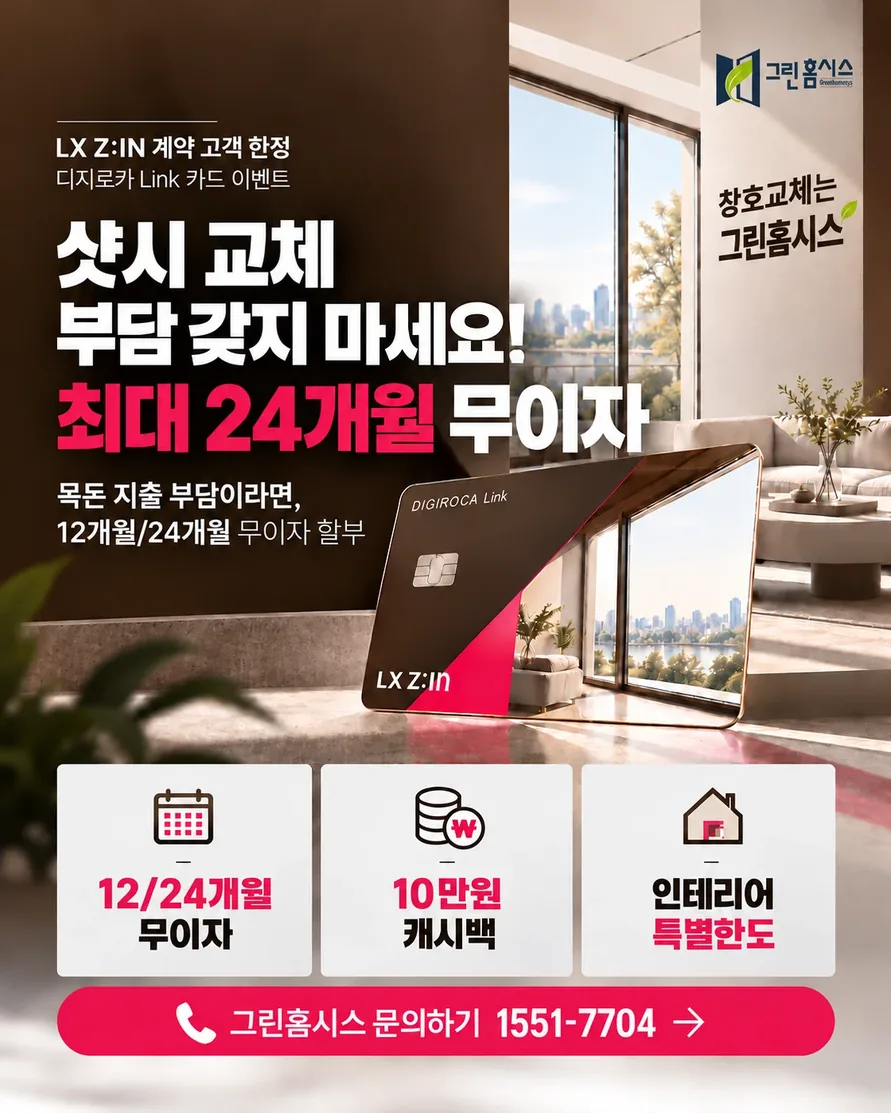
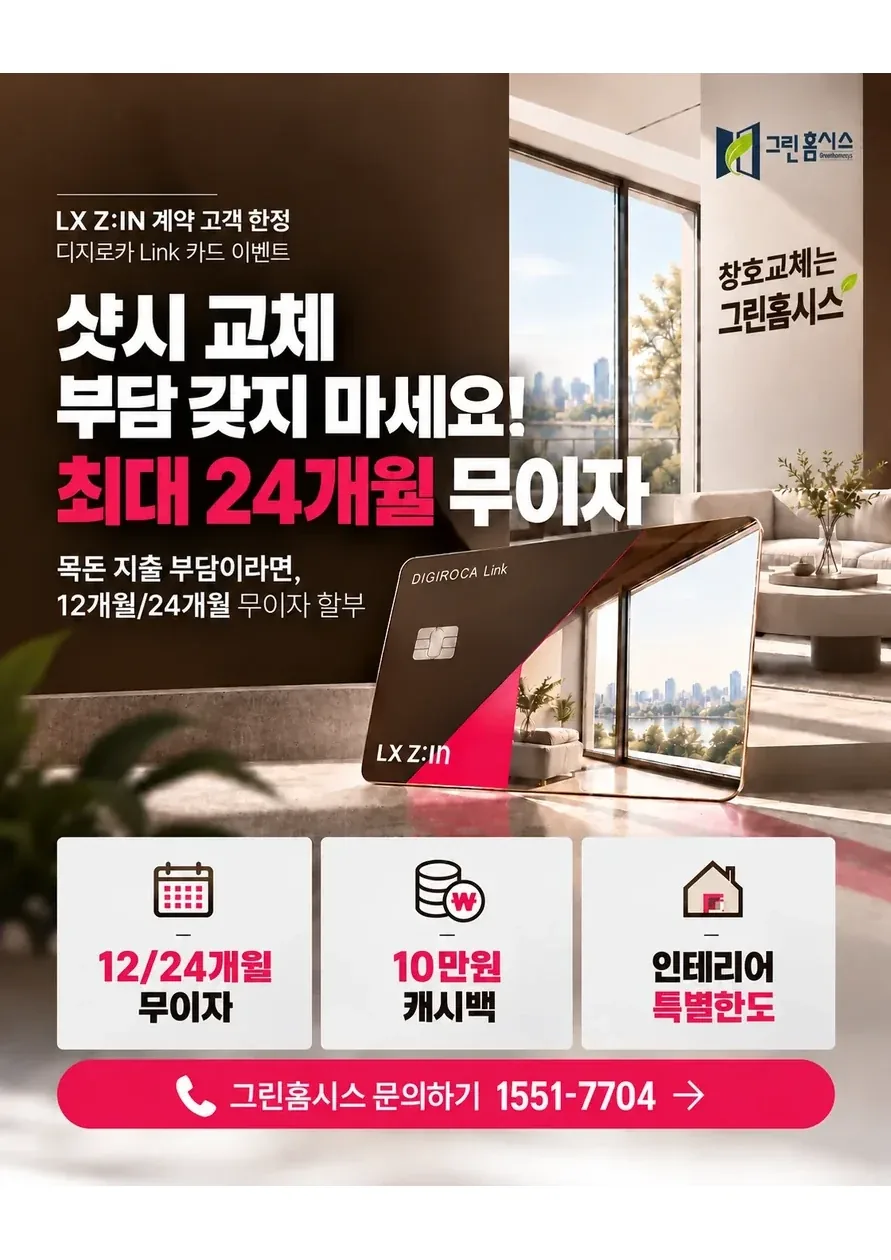
프로모션 카드 셋 — 롯데 디지로카 포스터 세로 길이를 나머지 둘과 맞춤 (#108)
이미지 비율이 달라(891×1113) 카드 셋이 다른 높이로 보였다. 891×1260
흰 캔버스 가운데에 앉혀 다른 두 포스터와 같은 높이로 맞춤(위아래 흰
여백 생김 — 카드 배경이 흰색이라 눈에 안 띈다).

Claude-Session: https://claude.ai/code/session_01WdVrgu9SkNjSTGSbyDB1Ru

diff --git a/index.html b/index.html
@@ -688,7 +688,7 @@
           <span class="badge badge-special">특별 혜택</span>
           <h3>롯데 디지로카: 세 가지 혜택</h3>
         </div>
-        <img src="assets/promo-lotte-digiroca.webp" alt="LX Z:IN 계약 고객 한정 롯데 디지로카 Link 카드 이벤트: 샷시 교체 12·24개월 무이자 할부, 10만원 캐시백, 인테리어 특별한도" loading="lazy" data-full="assets/promo-lotte-digiroca.webp" width="891" height="1113" decoding="async">
+        <img src="assets/promo-lotte-digiroca.webp" alt="LX Z:IN 계약 고객 한정 롯데 디지로카 Link 카드 이벤트: 샷시 교체 12·24개월 무이자 할부, 10만원 캐시백, 인테리어 특별한도" loading="lazy" data-full="assets/promo-lotte-digiroca.webp" width="891" height="1260" decoding="async">
       </div>
     </div>
     <p class="promo-note">월간 프로모션은 매달 새로운 혜택으로 찾아옵니다.<br>자세한 조건은 전화로 문의해 주세요.</p>
